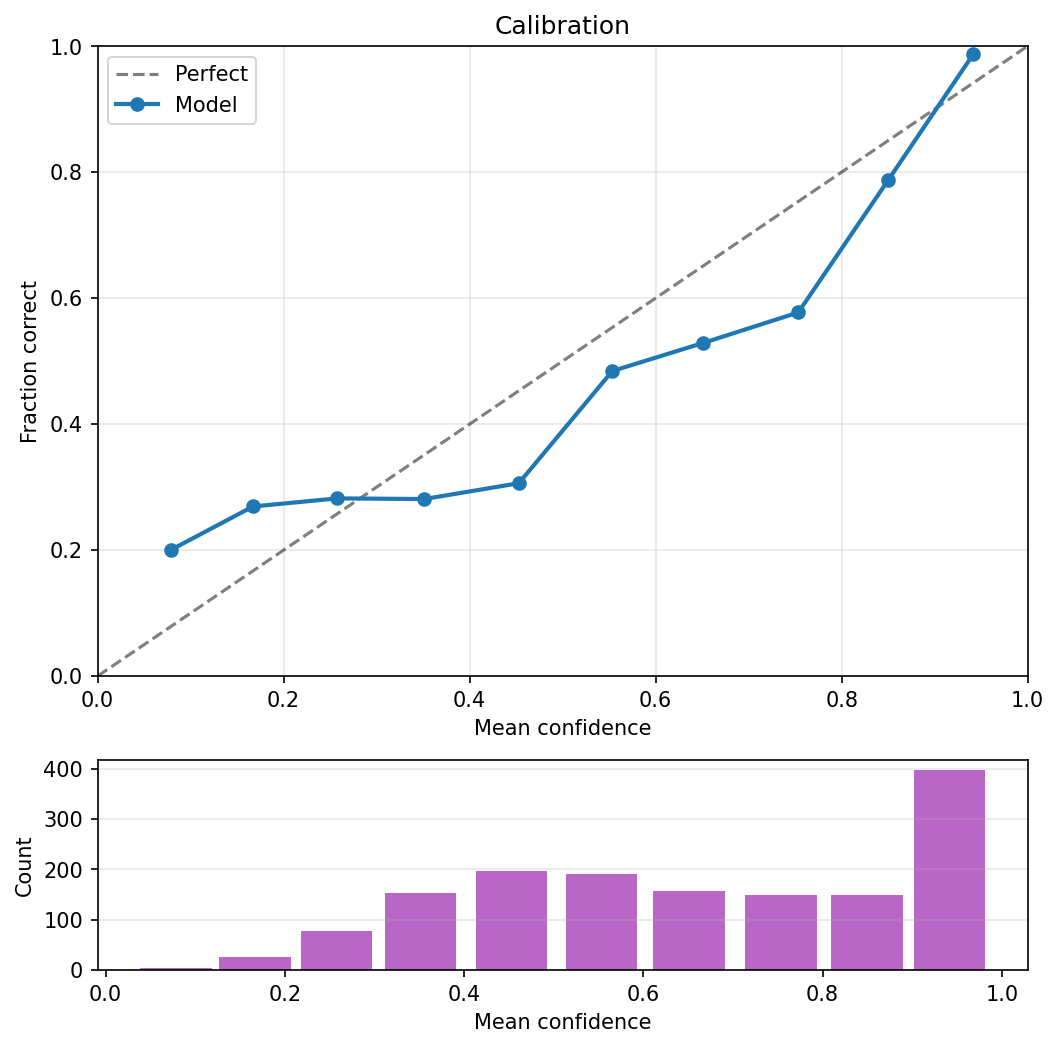
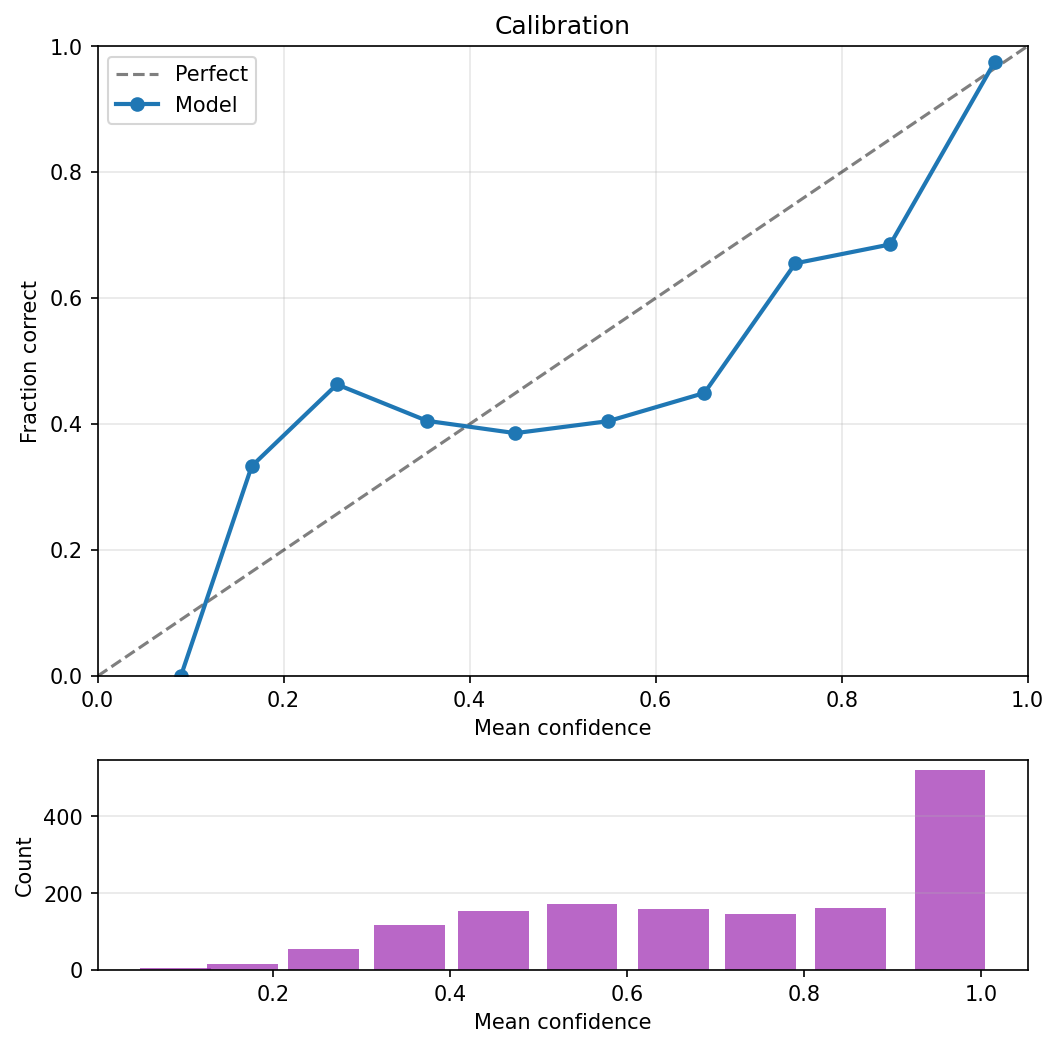
fix: stop min_child_weight from starving multiclass splits

diff --git a/src/transaction_classifier/training/hpo/search_space.py b/src/transaction_classifier/training/hpo/search_space.py
@@ -24,7 +24,10 @@ def draw_hyperparams(trial: optuna.Trial) -> dict[str, Any]:
         "colsample_bylevel": trial.suggest_float("colsample_bylevel", 0.4, 1.0),
         "reg_alpha": trial.suggest_float("reg_alpha", 0.01, 10.0, log=True),
         "reg_lambda": trial.suggest_float("reg_lambda", 0.1, 20.0, log=True),
-        "min_child_weight": trial.suggest_int("min_child_weight", 1, 50),
+        # A leaf's minimum sum of hessians. On multi:softprob a row is worth about
+        # p(1-p) per class, so the useful range sits below 1 and an integer range
+        # could never reach it.
+        "min_child_weight": trial.suggest_float("min_child_weight", 1e-3, 10.0, log=True),
         "gamma": trial.suggest_float("gamma", 0.0, 5.0),
         "max_delta_step": trial.suggest_int("max_delta_step", 0, 5),
         "max_bin": trial.suggest_int("max_bin", 128, 512, step=64),

diff --git a/scripts/compare_models.py b/scripts/compare_models.py
@@ -165,7 +165,9 @@ def _train_lightgbm(
         subsample=0.7,
         colsample_bytree=0.7,
         reg_lambda=5.0,
-        min_child_weight=10,
+        # LightGBM's own default: the same quantity as XGBoost's min_child_weight, on
+        # the scale its library uses. A threshold of 10 starves multiclass splits.
+        min_child_weight=1e-3,
         num_class=n_classes,
         objective="multiclass",
         class_weight="balanced" if balanced else None,

diff --git a/tests/unit/test_hpo.py b/tests/unit/test_hpo.py
@@ -45,7 +45,7 @@ def test_draw_hyperparams_values_in_range():
     assert 0.4 <= params["colsample_bylevel"] <= 1.0
     assert 0.01 <= params["reg_alpha"] <= 10.0
     assert 0.1 <= params["reg_lambda"] <= 20.0
-    assert 1 <= params["min_child_weight"] <= 50
+    assert 1e-3 <= params["min_child_weight"] <= 10.0
     assert 0.0 <= params["gamma"] <= 5.0
     assert 0 <= params["max_delta_step"] <= 5
     assert 128 <= params["max_bin"] <= 512

diff --git a/src/transaction_classifier/core/models/xgboost_model.py b/src/transaction_classifier/core/models/xgboost_model.py
@@ -100,7 +100,7 @@ class XGBoostModel(ClassifierBase):
         colsample_bylevel: float = 0.7,
         reg_alpha: float = 1.0,
         reg_lambda: float = 5.0,
-        min_child_weight: int = 10,
+        min_child_weight: float = 1.0,
         gamma: float = 0.5,
         max_delta_step: int = 1,
         patience: int | None = 40,

diff --git a/scripts/eval_ablation.py b/scripts/eval_ablation.py
@@ -43,7 +43,7 @@ def _train_xgboost(
         subsample=0.7,
         colsample_bytree=0.7,
         reg_lambda=5.0,
-        min_child_weight=10,
+        min_child_weight=1,
         gamma=0.5,
         tree_method="hist",
         objective="multi:softprob",

diff --git a/README.md b/README.md
@@ -14,18 +14,18 @@ Trained on **synthetic data** (10,001 bank-journal lines from 7,867 transactions
 
 | Metric | Value |
 |---|---|
-| Top-1 accuracy | 60.2% |
-| Top-3 accuracy | 89.9% |
-| Top-5 accuracy | 95.9% |
-| Top-10 accuracy | 98.4% |
-| Balanced accuracy | 69.3% |
+| Top-1 accuracy | 66.0% |
+| Top-3 accuracy | 93.5% |
+| Top-5 accuracy | 96.9% |
+| Top-10 accuracy | 99.0% |
+| Balanced accuracy | 73.2% |
 | Classes | 100 |
 | Evaluation samples | 1,501 |
 | Bayes ceiling, top-1 / top-5 | 85.0% / 99.3% |
 
 All rows are measured on the held-out temporal test block (the most recent 15% of transactions, never seen by early stopping or tuning). The ceiling row is the Bayes-optimal classifier under the generator's own sampling process, scored on the same test rows: no model can beat it in expectation, so it is the yardstick for every synthetic number above ([`scripts/estimate_ceiling.py`](scripts/estimate_ceiling.py) — committed run: [`reports/ceiling.json`](reports/ceiling.json)).
 
-See the [Model Card](docs/MODEL_CARD.md) for intended use, factors, limitations, and drift/maintenance guidance. Top-1 is a weak summary of this system — it is designed as a ranked top-K suggestion tool with a human in the loop, which is why the top-3/top-5 numbers and balanced accuracy matter more. Training uses balanced class weights, which trade about 15pp of top-1 for +8pp balanced accuracy and +15pp recall on rare codes, with top-5 unchanged ([measured](docs/DESIGN.md#class-imbalance)).
+See the [Model Card](docs/MODEL_CARD.md) for intended use, factors, limitations, and drift/maintenance guidance. Top-1 is a weak summary of this system — it is designed as a ranked top-K suggestion tool with a human in the loop, which is why the top-3/top-5 numbers and balanced accuracy matter more. Training uses balanced class weights, which trade about 11pp of top-1 for +7pp balanced accuracy and +10pp recall on rare codes, with top-5 unchanged ([measured](docs/DESIGN.md#class-imbalance)).
 
 ### Feature Ablation
 
@@ -33,10 +33,10 @@ Cumulative accuracy on the held-out temporal test block. Each row adds one featu
 
 | Feature set | Accuracy | Balanced Accuracy |
 |---|---|---|
-| TF-IDF only | 0.6176 | 0.4876 |
-| + numeric | 0.7582 | 0.6297 |
-| + date | 0.7515 | 0.6290 |
-| + domain (all features) | 0.7455 | 0.6211 |
+| TF-IDF only | 0.6462 | 0.5675 |
+| + numeric | 0.7722 | 0.6981 |
+| + date | 0.7662 | 0.6607 |
+| + domain (all features) | 0.7668 | 0.6641 |
 
 Date and domain features show marginal or negative lift on synthetic data because the generator produces uniformly distributed timestamps and simplified entity patterns. On real client data with seasonal patterns and consistent entity naming, these features provide meaningful signal. Reproduce with `uv run python scripts/eval_ablation.py` — committed run: [`reports/feature_ablation.json`](reports/feature_ablation.json).
 
@@ -46,13 +46,13 @@ Same feature matrix, same temporal split, scored on the held-out test block. XGB
 
 | Model | Class weights | Top-1 | Top-5 | Balanced accuracy | F1 (weighted) | Train time |
 |---|---|---|---|---|---|---|
-| Logistic Regression | none | 0.7608 | 0.9714 | 0.6970 | 0.7500 | 15.7s |
-| Logistic Regression | balanced | 0.6382 | 0.9574 | 0.7442 | 0.6304 | 82.4s |
-| XGBoost | none | 0.7475 | 0.9547 | 0.6132 | 0.7252 | 80.0s |
-| **XGBoost** | **balanced** | **0.6023** | **0.9587** | **0.6928** | **0.5838** | **83.8s** |
-| LightGBM | none | 0.7009 | 0.9101 | 0.5248 | 0.6700 | 45.3s |
+| Logistic Regression | none | 0.7615 | 0.9714 | 0.6972 | 0.7505 | 14.2s |
+| Logistic Regression | balanced | 0.6376 | 0.9574 | 0.7470 | 0.6298 | 77.0s |
+| XGBoost | none | 0.7702 | 0.9714 | 0.6648 | 0.7553 | 78.3s |
+| **XGBoost** | **balanced** | **0.6596** | **0.9687** | **0.7317** | **0.6525** | **88.4s** |
+| LightGBM | none | 0.7768 | 0.9680 | 0.6814 | 0.7634 | 58.1s |
 
-On this synthetic data a scaled logistic regression outperforms XGBoost: it leads on top-1, balanced accuracy and weighted F1 at either weighting, leads on top-5 without weights, and is the fastest to train without weights. With balanced weights their top-5 is level (0.9574 vs 0.9587). XGBoost used all 500 of its boosting rounds in both runs, so its rows measure the production round budget rather than a converged model; neither model has been hyperparameter-searched for this comparison. Reproduce with `uv run python scripts/compare_models.py` — committed run: [`reports/model_comparison.json`](reports/model_comparison.json).
+Without class weights the three models land within 1.5pp of each other on top-1 — LightGBM 0.7768, XGBoost 0.7702, logistic regression 0.7615 — and logistic regression leads on balanced accuracy. With balanced weights, the shipped configuration, XGBoost leads logistic regression on top-1 (0.6596 vs 0.6376) and top-5 (0.9687 vs 0.9574), while logistic regression keeps the better balanced accuracy (0.7470 vs 0.7317). The shipped run is the only one still bounded by its budget, using 498 of its 500 rounds, where LightGBM converged at round 140 and logistic regression at 900 of 1,000 iterations. No model was hyperparameter-searched for this comparison, and these figures follow the `min_child_weight` correction described in [DESIGN.md](docs/DESIGN.md#8-hyperparameter-defaults-rationale). Reproduce with `uv run python scripts/compare_models.py` — committed run: [`reports/model_comparison.json`](reports/model_comparison.json).
 
 ![Top-K Accuracy](reports/topk_accuracy.png)
 
@@ -115,7 +115,7 @@ flowchart LR
 
 ## Design Decisions
 
-**Why XGBoost over neural approaches.** The input is structured tabular data with high cardinality categorical features and class imbalance (100 classes on the default sample, long-tail distribution). Gradient-boosted trees handle sparse, mixed-type features without the architecture tuning that neural nets require, and imbalance is handled with balanced per-row sample weights rather than resampling — trading about 15pp of top-1 for +8pp balanced accuracy and +15pp recall on rare codes ([measured](docs/DESIGN.md#class-imbalance)). Training on the default sample takes about a minute, which matters when retraining on a schedule. Feature importance is directly interpretable for debugging misclassifications with domain experts.
+**Why XGBoost over neural approaches.** The input is structured tabular data with high cardinality categorical features and class imbalance (100 classes on the default sample, long-tail distribution). Gradient-boosted trees handle sparse, mixed-type features without the architecture tuning that neural nets require, and imbalance is handled with balanced per-row sample weights rather than resampling — trading about 11pp of top-1 for +7pp balanced accuracy and +10pp recall on rare codes ([measured](docs/DESIGN.md#class-imbalance)). Training on the default sample takes about a minute, which matters when retraining on a schedule. Feature importance is directly interpretable for debugging misclassifications with domain experts.
 
 **Why TF-IDF + domain features, not embeddings.** French accounting transaction text is formulaic: `URSSAF COTISATIONS`, `PRLV SEPA CPY:FR123`. Pattern-based features (entity detection, regex-extracted markers) outperform dense embeddings because the signal is in known keywords and structural patterns, not semantic meaning. TF-IDF character n-grams capture morphological variations (e.g., `COTISATION` vs `COTISATIONS`) without a pretrained language model. The feature space is sparse but highly discriminative for this domain.
 

diff --git a/docs/MODEL_CARD.md b/docs/MODEL_CARD.md
@@ -9,7 +9,7 @@ and `reports/model_comparison.json`; see the [README](../README.md) for reproduc
 - **Task:** multi-class classification of financial transactions into French accounting
   (Plan Comptable Général) codes.
 - **Architecture:** XGBoost gradient-boosted trees (500 estimators, depth 6, lr 0.05,
-  `min_child_weight` 10, `gamma` 0.5), one-vs-rest over **100 account classes**.
+  `min_child_weight` 1, `gamma` 0.5), one-vs-rest over **100 account classes**.
 - **Inputs / features:** three TF-IDF vectorizers (word n-grams on the `description` and
   `remarks` fields; character n-grams on combined text, capturing morphological variants
   like `COTISATION`/`COTISATIONS`) plus
@@ -26,8 +26,8 @@ and `reports/model_comparison.json`; see the [README](../README.md) for reproduc
 
 - **Primary use:** decision support for bookkeepers/accountants — surface a short ranked
   list of likely account codes for a transaction so a human selects/confirms. The top-K
-  design is deliberate: top-1 is moderate, but the correct code is in the top-3 ~90% of the
-  time and top-5 ~96% of the time (synthetic), which fits a "suggest, human confirms" loop.
+  design is deliberate: top-1 is moderate, but the correct code is in the top-3 ~93% of the
+  time and top-5 ~97% of the time (synthetic), which fits a "suggest, human confirms" loop.
 - **Intended users:** accounting/finance teams with a human in the loop.
 - **Out of scope / misuse:** autonomous ledger posting without human review; tax or legal
   compliance determinations; non-French charts of accounts; any setting where a wrong code
@@ -51,27 +51,28 @@ weights (the default).
 
 | Metric | Value |
 |---|---|
-| Top-1 accuracy | 0.602 |
-| Top-3 accuracy | 0.899 |
-| Top-5 accuracy | 0.959 |
-| Top-10 accuracy | 0.984 |
-| Balanced accuracy | 0.693 |
+| Top-1 accuracy | 0.660 |
+| Top-3 accuracy | 0.935 |
+| Top-5 accuracy | 0.969 |
+| Top-10 accuracy | 0.990 |
+| Balanced accuracy | 0.732 |
 
-**Read accuracy (0.602) and balanced accuracy (0.693) together:** balanced class weights push
+**Read accuracy (0.660) and balanced accuracy (0.732) together:** balanced class weights push
 the model toward rare account codes, so the macro view sits *above* the headline. Without them
-the order flips (0.748 vs 0.613, [`reports/class_weighting.json`](../reports/class_weighting.json)):
+the order flips (0.770 vs 0.665, [`reports/class_weighting.json`](../reports/class_weighting.json)):
 frequent codes are predicted well and rare ones are missed. Top-1 is a poor summary of this
 system; the top-K ranking metrics are the ones aligned with its intended use. On this synthetic
 data no classifier can exceed a Bayes-optimal top-1 of 0.850 or top-5 of 0.993 on the same rows
 ([`reports/ceiling.json`](../reports/ceiling.json)).
 
 Model comparison on the same features and split
-([`reports/model_comparison.json`](../reports/model_comparison.json)): on this synthetic data a
-scaled logistic regression outperforms XGBoost. It leads on top-1 (0.761 vs 0.748 unweighted;
-0.638 vs 0.602 with balanced weights), balanced accuracy and weighted F1, and on top-5 without
-weights (0.971 vs 0.955); with balanced weights their top-5 is level (0.957 vs 0.959). LightGBM
-trails both on top-5 and balanced accuracy. XGBoost used all 500 boosting rounds in both runs,
-and neither model was hyperparameter-searched for the comparison.
+([`reports/model_comparison.json`](../reports/model_comparison.json)): without class weights the
+three models sit within 1.5pp of each other on top-1 (LightGBM 0.777, XGBoost 0.770, logistic
+regression 0.762), with logistic regression ahead on balanced accuracy. With balanced weights —
+the shipped setting — XGBoost leads on top-1 (0.660 vs 0.638) and top-5 (0.969 vs 0.957), while
+logistic regression leads balanced accuracy (0.747 vs 0.732). The shipped run is the only one
+still bounded by its round budget (498 of 500). No model was hyperparameter-searched for the
+comparison, and these figures follow the `min_child_weight` correction in the design doc.
 
 ## Training & Evaluation Data
 
@@ -85,7 +86,7 @@ and neither model was hyperparameter-searched for the comparison.
   same rows that grade it.
 - **Class weighting:** training rows carry balanced sample weights (`balanced_class_weights`,
   default on), so rare account codes weigh as much as frequent ones in the loss. On the test
-  block this costs about 15pp top-1, with top-5 unchanged, for +8pp balanced accuracy
+  block this costs about 11pp top-1, with top-5 unchanged, for +7pp balanced accuracy
   ([`reports/class_weighting.json`](../reports/class_weighting.json)); every manifest records
   per-class recall.
 - **Known synthetic-vs-real gap:** the generator uses uniform entity distribution and random
@@ -98,7 +99,7 @@ and neither model was hyperparameter-searched for the comparison.
 ## Limitations & Ethical Considerations
 
 - **Long-tail weakness:** rare account codes are predicted least reliably (mean recall
-  0.541 on the rarest quarter of classes). Do not rely on the model for unusual or low-frequency codes without review.
+  0.594 on the rarest quarter of classes). Do not rely on the model for unusual or low-frequency codes without review.
 - **Domain & locale bound:** trained for the French PCG and French-language transaction
   conventions; it does not transfer to other accounting standards or languages.
 - **Confidence is not calibration:** reported confidences are softmax-style scores, not

diff --git a/docs/DESIGN.md b/docs/DESIGN.md
@@ -363,7 +363,7 @@ All defaults are defined in `core/config.py :: Settings` and in `core/models/xgb
 |-----------|-------|-----------|
 | `reg_alpha` (L1) | 1.0 | Encourages sparsity in leaf weights. Important when TF-IDF features create thousands of weak signals -- L1 pushes irrelevant features toward zero contribution. |
 | `reg_lambda` (L2) | 5.0 | Aggressive ridge penalty. Shrinks leaf weights so no single tree overfits the handful of rows behind a rare account code. Higher than the typical default (1.0) because many codes have fewer than 50 samples. |
-| `min_child_weight` | 10 | Minimum sum of instance weight in a child node. Prevents splits on tiny subsets, which is common when rare account codes have <50 samples. |
+| `min_child_weight` | 1 | Minimum sum of hessians in a child node. On `multi:softprob` a row contributes about p(1-p) per class, so at 100 classes it is worth ~0.01 and the previous value of 10 demanded roughly a thousand rows per leaf, which blocked nearly every split (top-1 0.61 against 0.66 on the validation block). Chosen on the validation block, where 1 — XGBoost's own default — minimised log loss; below 1 the curve is flat. |
 | `gamma` | 0.5 | Minimum loss reduction for a split. Acts as a pruning threshold -- splits that don't improve loss by at least 0.5 are rejected. |
 | `max_delta_step` | 1 | Bounds the weight update per tree, keeping multi-class updates stable when a few frequent classes dominate the early gradients. |
 
@@ -377,10 +377,10 @@ Measured on the held-out test block with the production hyperparameters (`uv run
 
 | Weighting | Top-1 | Top-3 | Top-5 | Balanced accuracy | Rare-class recall |
 |---|---|---|---|---|---|
-| none | 0.7475 | 0.9174 | 0.9547 | 0.6132 | 0.3895 |
-| **balanced (default)** | **0.6023** | **0.8987** | **0.9587** | **0.6928** | **0.5406** |
+| none | 0.7702 | 0.9474 | 0.9714 | 0.6648 | 0.4950 |
+| **balanced (default)** | **0.6596** | **0.9347** | **0.9687** | **0.7317** | **0.5940** |
 
-Rare-class recall is the mean recall over the 25 test-block classes in the bottom quartile of training counts. Balanced weights trade about 15pp of top-1 and 2pp of top-3, with top-5 unchanged (+0.4pp), for +8pp balanced accuracy and +15pp recall on rare codes. The system is a top-K suggestion tool with an accountant confirming the code, so a rare account reliably reaching the shortlist is worth more than extra top-1 hits on frequent ones; set the flag to `false` where unattended top-1 automation matters more. Every manifest records `per_class_recall` on the test block, so the effect can be checked code by code.
+Rare-class recall is the mean recall over the 25 test-block classes in the bottom quartile of training counts. Balanced weights trade about 11pp of top-1 and 1pp of top-3, with top-5 unchanged (−0.3pp), for +7pp balanced accuracy and +10pp recall on rare codes. The system is a top-K suggestion tool with an accountant confirming the code, so a rare account reliably reaching the shortlist is worth more than extra top-1 hits on frequent ones; set the flag to `false` where unattended top-1 automation matters more. Every manifest records `per_class_recall` on the test block, so the effect can be checked code by code.
 
 ### Stochastic boosting
 
@@ -412,10 +412,10 @@ Accuracy on the held-out temporal test block (15% most recent transactions) with
 
 | Feature set | Accuracy | Balanced Accuracy |
 |---|---|---|
-| TF-IDF only | 0.6176 | 0.4876 |
-| + numeric | 0.7582 | 0.6297 |
-| + date | 0.7515 | 0.6290 |
-| + domain (all features) | 0.7455 | 0.6211 |
+| TF-IDF only | 0.6462 | 0.5675 |
+| + numeric | 0.7722 | 0.6981 |
+| + date | 0.7662 | 0.6607 |
+| + domain (all features) | 0.7668 | 0.6641 |
 
 > **Note on synthetic data:** Date and domain features show marginal or negative lift here because the synthetic generator produces uniformly distributed timestamps and simplified entity patterns. On real client data, where fiscal-period clustering and entity-specific accounting rules create learnable signals, domain features contributed +3-5% top-1 accuracy. The features are retained because the system is designed for production data characteristics, not synthetic benchmarks.
 
